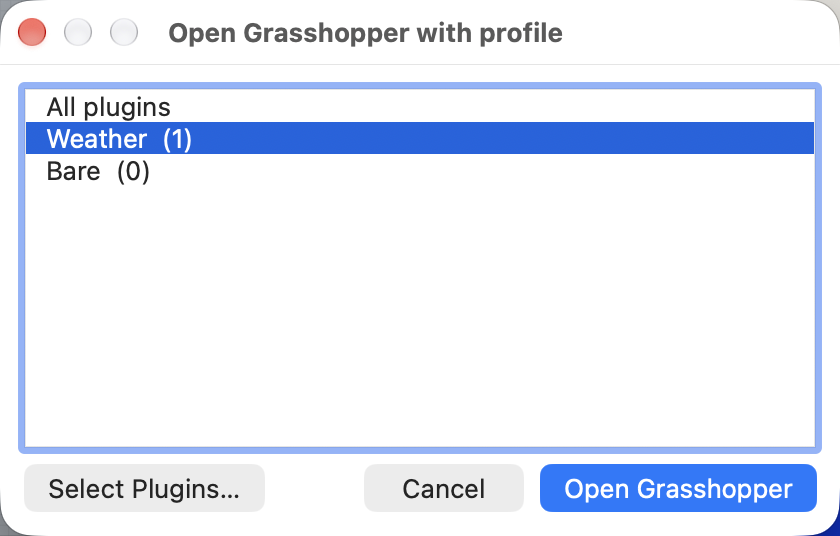
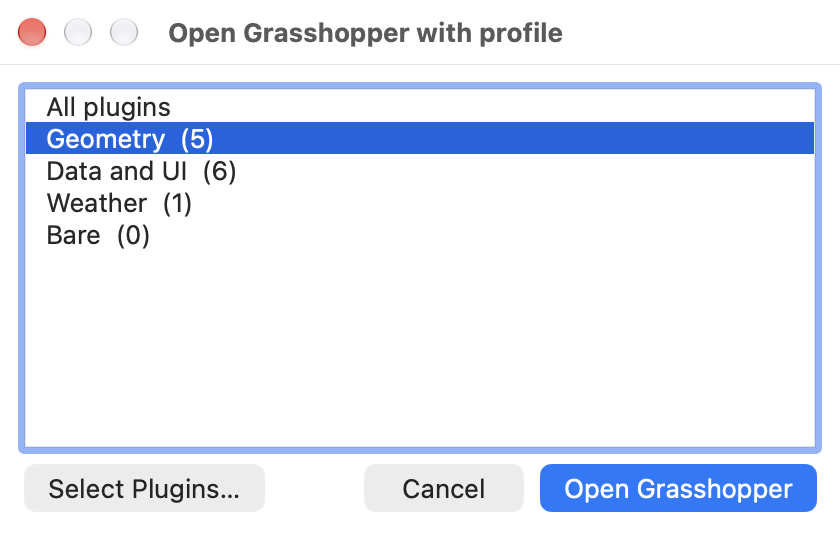
Improve README: header, badges, and new screenshots
- Add a centered header with the icon and build, release, and license badges.
- Add a before/after of the Grasshopper ribbon: all 14 plugins against the
  5-plugin Geometry profile.
- Retake the picker and editor screenshots with 14 real plugins installed
  and Grasshopper not yet loaded.
- Add a screenshot of the toolbar button.

diff --git a/README.md b/README.md
@@ -1,4 +1,19 @@
-# GhPack
+<p align="center">
+  <img src="package/icon.png" width="96" alt="GhPack icon">
+</p>
+
+<h1 align="center">GhPack</h1>
+
+<p align="center">
+  Plugin profiles for Grasshopper. Load only the plugins that a job needs.
+</p>
+
+<p align="center">
+  <a href="https://github.com/Ethan-Otto/GhPack/actions/workflows/build.yml"><img src="https://github.com/Ethan-Otto/GhPack/actions/workflows/build.yml/badge.svg" alt="build"></a>
+  <a href="https://github.com/Ethan-Otto/GhPack/releases/latest"><img src="https://img.shields.io/github/v/release/Ethan-Otto/GhPack" alt="release"></a>
+  <a href="LICENSE"><img src="https://img.shields.io/github/license/Ethan-Otto/GhPack" alt="license"></a>
+  <img src="https://img.shields.io/badge/tested%20on-Rhino%209%20macOS-1f883d" alt="tested on Rhino 9 macOS">
+</p>
 
 Profiles ("modpacks") for Grasshopper plugins. Pick a group of plugins, then open Grasshopper with
 only that group loaded. Fewer plugins means a faster Grasshopper start and a shorter component ribbon.
@@ -6,15 +21,40 @@ only that group loaded. Fewer plugins means a faster Grasshopper start and a sho
 GhPack is a Rhino plugin (`.rhp`). It has to be: a Grasshopper plugin loads *with* Grasshopper, which
 is too late to decide what Grasshopper loads.
 
-| Open Grasshopper with a profile | Select the plugins in a profile |
-|---|---|
-| ![Profile picker](docs/picker.png) | ![Profile editor](docs/editor.png) |
+## Before and after
+
+The same Rhino with 14 Grasshopper plugins installed.
+
+**All plugins**
+
+![Grasshopper ribbon with all plugins loaded](docs/ribbon-all.png)
+
+**The `Geometry` profile (5 plugins)**
+
+![Grasshopper ribbon with the Geometry profile](docs/ribbon-profile.png)
+
+## Screenshots
+
+<table>
+  <tr>
+    <th>Open Grasshopper with a profile</th>
+    <th>Select the plugins in a profile</th>
+  </tr>
+  <tr>
+    <td valign="top"><img src="docs/picker.png" width="320" alt="Profile picker"></td>
+    <td valign="top"><img src="docs/editor.png" width="520" alt="Profile editor"></td>
+  </tr>
+</table>
 
 ## Use
 
 1. Click the GhPack toolbar button (green stacked plates), or run `GhPackLaunch`.
 2. Pick a profile and click **Open Grasshopper**.
 3. To change what a profile loads, click **Select Plugins…**, tick the plugins, and **Save**.
+
+<img src="docs/toolbar.png" width="347" alt="The GhPack toolbar button in Rhino">
+
+*The GhPack button, in the Rhino sidebar.*
 
 Use `GhPackLaunch` instead of the `Grasshopper` command. Grasshopper cannot unload a plugin, so if it
 has already loaded its plugins in this Rhino session, a profile change takes effect after you restart
